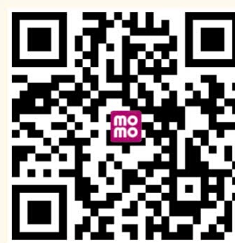
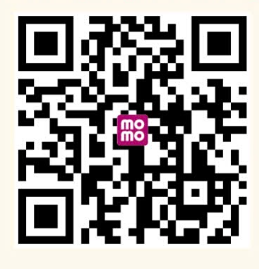
Bản hoàn chỉnh

diff --git a/script.js b/script.js
@@ -30,7 +30,7 @@ const contentDatabase = {
         ],
         wishTemplate: "Chúc mừng năm mới mẹ iu - mẹ {name} ! Năm nay con trai đã lớn, đã kiếm được tiền và hoàn thành lời hứa mang học bổng về cho mẹ. Mong món quà nhỏ này sẽ làm mẹ vui và tự hào. Sang năm mới, con chúc mẹ 2 chữ 'Bình An' và 'Sức Khỏe'. Mong mẹ luôn cười tươi, bớt lo toan và thay đổi những thói quen chưa tốt để mẹ luôn luôn happy nha. Mẹ khỏe mạnh là hạnh phúc lớn nhất của con!", 
         avatar: 'Image/mom/13.jpg',
-        qr: "Image/grandfather/QR.png",
+        qr: "Image/mom/qr.png",
     },
     "elder sister": {
         music: "Music/chigai.mp3",
@@ -53,7 +53,7 @@ const contentDatabase = {
         ],
         wishTemplate: "Năm nay so với năm trước chị cũng đã có những thay đổi, bước chuyển mình , tiến bộ hơn rất nhiều rồi.Để rồi chị cũng đã nhận được những phần quà, thành tựu đúng với công sức mà chị đã bỏ ra.Chúc chị gái của em sang năm mới sẽ có 1 năm thật là bùng nổ hơn nữa,chị hãy cố gắng giữ gìn sức khỏe vì có sức khỏe mới có thể làm được mọi việc được.Năm mới chị cố hãy cố gắng hạn chế được những thói quen chưa được tốt và hãy tiếp tục phát huy những điểm mạnh của mình.Chúc chị trong năm mới sẽ đạt được những mục tiêu mà bản thân đã đề ra.Chị hãy tiếp tục theo đuổi con đường bản thân mình đã chọn, làm những việc mình thích hãy luôn nhớ rằng ở phía sau chị luôn có mẹ và em luôn luôn đồng hành,ủng hộ cùng chị trong mọi con đường chị lựa chọn!(PS: Chúc chị kiếm được nhiều tiền để mua thật nhiều xúc xích cho em nhaaa, chị sớm có gấu để mùa đông không lạnh nha)",
         avatar: 'Image/elder_sister/anh3.jpg',
-        qr: "Image/grandfather/QR.png",
+        qr: "Image/elder_sister/qr.png",
     },
     "Grandfather": {
         music: "Music/tetbinhan.mp3",
@@ -68,7 +68,7 @@ const contentDatabase = {
         ],
         wishTemplate: "Chúc ông {name} và gia đình có một năm mới thật là nhiều sức khỏe, luôn vui vẻ, yêu đời. Ông cố gắng giữ gìn sức khỏe để ông cháu ta còn đi phượt Bắc Nam nha!",
         avatar: "Image/grandfather/avt.jpg",
-        qr: "Image/grandfather/QR.png",
+        qr: "Image/grandfather/qr.png",
     },
     "brother_village": {
         music: "Music/anhem.mp3",
@@ -86,7 +86,7 @@ const contentDatabase = {
             { url: 'Image/brother_stress/anh7.jpg', caption: 'Gác lại lo âu' },
         ],
         avatar: 'Image/brother_stress/anh8.jpg',
-        qr: "Image/grandfather/QR.png",
+        qr: "Image/brother_stress/qr.png",
     },
     "brother": {
         music: "Music/brother.mp3",
@@ -106,7 +106,7 @@ const contentDatabase = {
             { url: 'Image/brother/lh1.jpg', caption: 'Hát cuối năm' },
         ],
         avatar: 'Image/brother/snHung.jpg',
-        qr: "Image/grandfather/QR.png",
+        qr: "Image/brother/qr.png",
     }
 };
 
@@ -224,7 +224,7 @@ function checkUserInDatabase() {
             // Avatar Thần Tài mặc định
             document.getElementById('final-avatar').src = "Image/anhthantai.jpg";
             // QR mặc định
-            document.getElementById('final-qr').src = "Image/grandfather/QR.png"; 
+            document.getElementById('final-qr').src = "Image/qr.png"; 
 
             // Nhạc Tết chung
             const musicEl = document.getElementById('bg-music');
